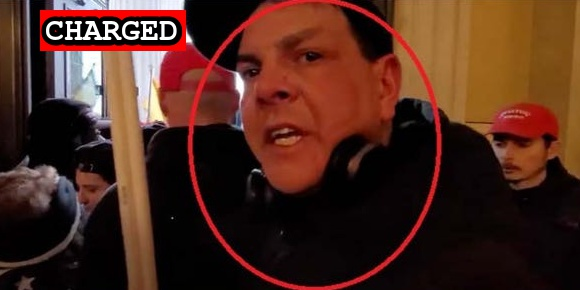
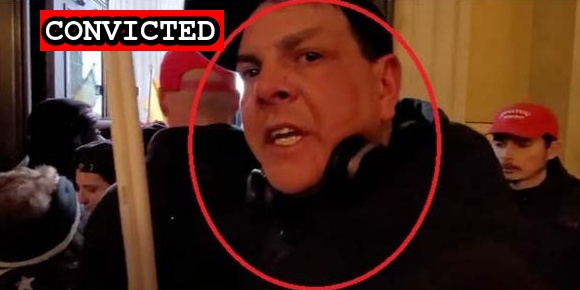
Guilty plea for David Mish

Changed region(s): [[0.0931, 0.031, 0.4034, 0.1862]]

diff --git a/docs/_suspects/leonard-gruppo.md b/docs/_suspects/leonard-gruppo.md
@@ -38,6 +38,6 @@ charges:
 ---
 - [News Report](https://www.everythinglubbock.com/news/local-news/new-info-released-about-clovis-man-arrested-in-connection-to-capitol-breach/)
 - [Complaint](https://www.justice.gov/usao-dc/case-multi-defendant/file/1401791/download)
-- [Statement of Facts](https://www.justice.gov/usao-dc/case-multi-defendant/file/1401796/download)
+- [Statement of Facts](https://www.justice.gov/usao-dc/case-multi-defendant/file/1428581/download)
 - [Information](https://extremism.gwu.edu/sites/g/files/zaxdzs2191/f/Leonard%20Gruppo%20Information.pdf)
-- [Plea Agreement](https://extremism.gwu.edu/sites/g/files/zaxdzs2191/f/Leonard%20Gruppo%20Plea%20Agreement.pdf)
+- [Plea Agreement](https://www.justice.gov/usao-dc/case-multi-defendant/file/1428586/download)

diff --git a/docs/_suspects/david-mish.md b/docs/_suspects/david-mish.md
@@ -3,11 +3,11 @@ name: David Mish
 lastName: Mish
 aka:
 residence: Wisconsin
-status: Charged
+status: Convicted
 date: 2021-01-15
 charged: 2021-01-15
 indicted:
-convicted: 
+convicted: 2021-08-30
 sentenced: 
 dismissed: 
 deceased:
